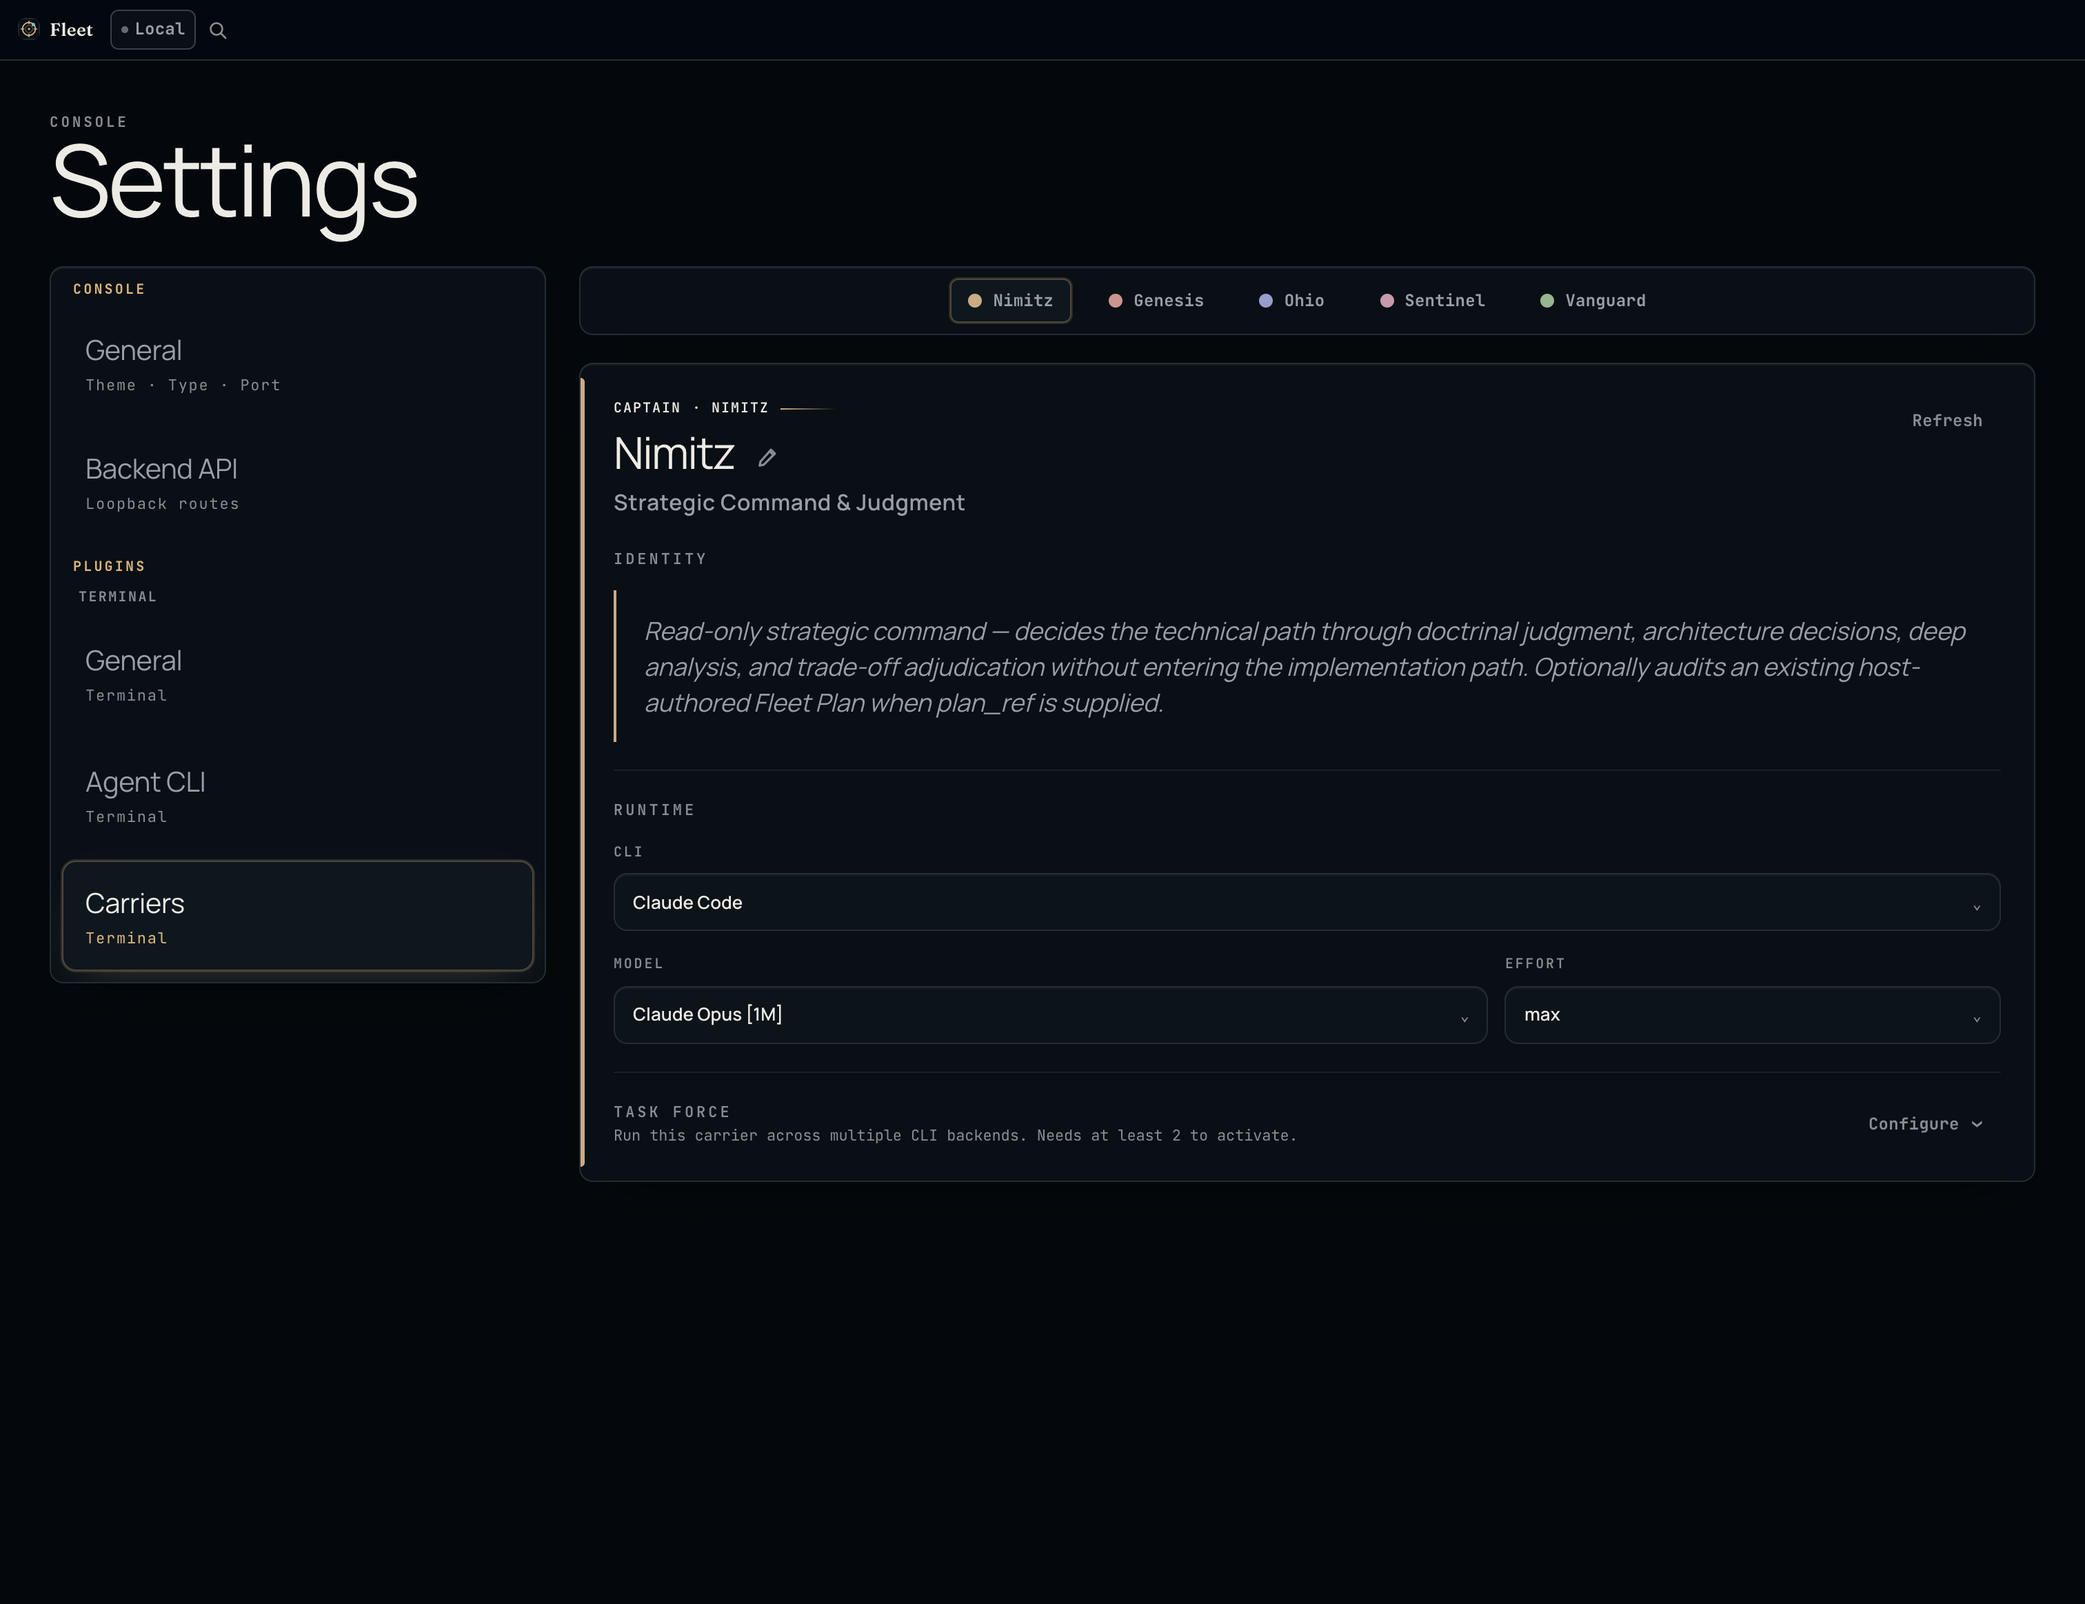
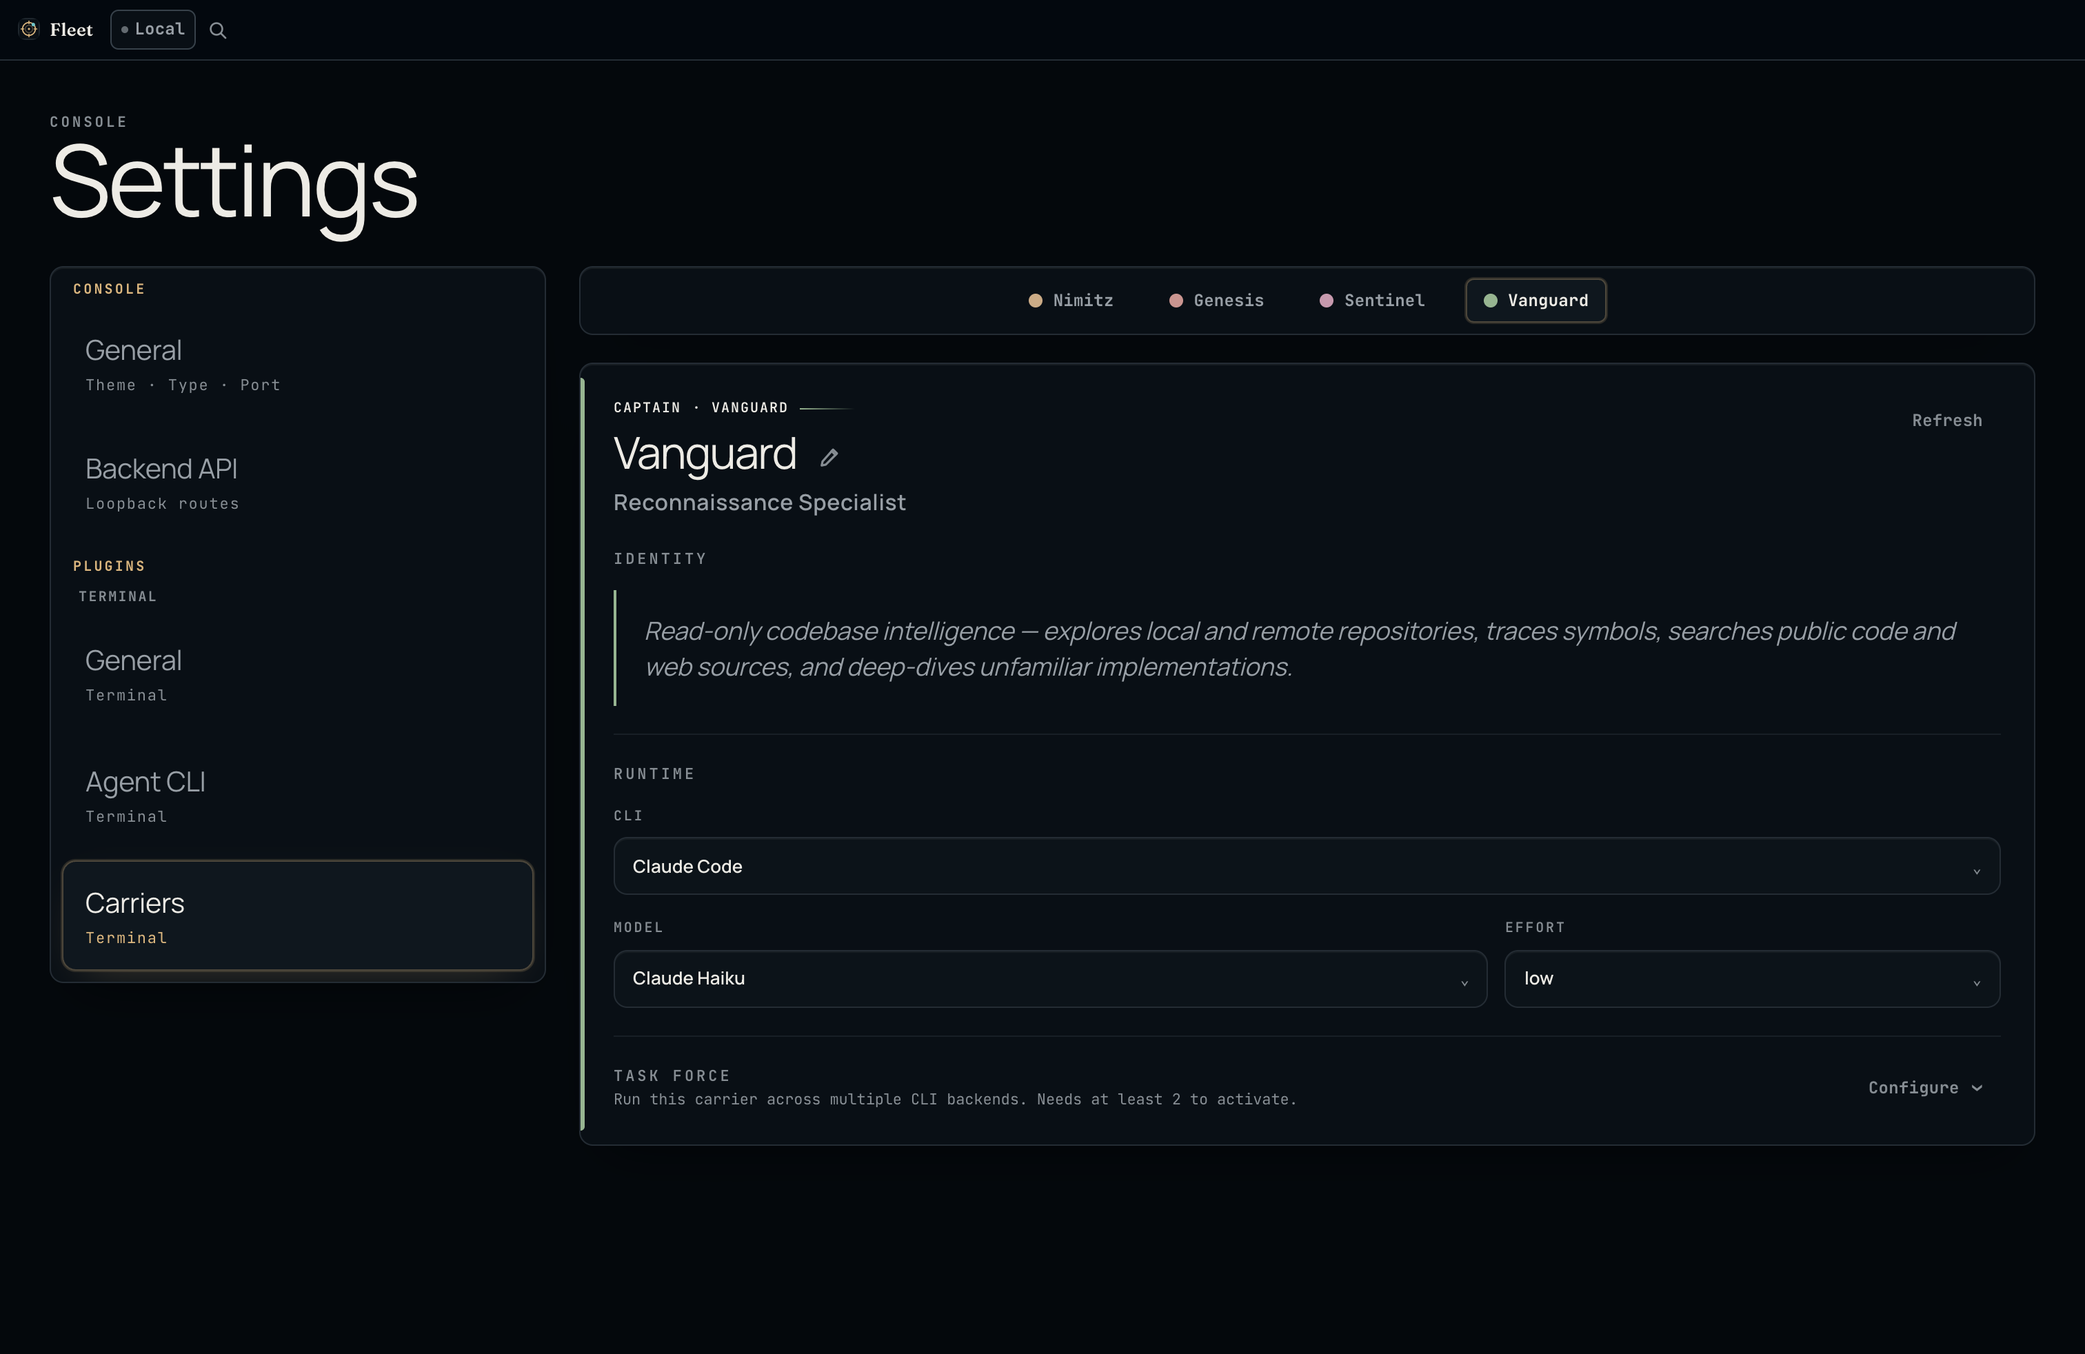
docs(carriers): update Ohio retirement references
- document the four-carrier roster and Genesis Plan execution
- refresh the Console carrier settings screenshot

diff --git a/docs/app.jsx b/docs/app.jsx
@@ -144,25 +144,12 @@ const CAPTAINS = [
     role: { ko: "Chief Engineer", en: "Chief Engineer" },
     cli: "Claude Code",
     color: "#ff6b6b",
-    mission: { ko: "단일 결정타. 신규 모듈·통합·마이그레이션을 한 번의 항해로 종결한다.", en: "The decisive blow. Closes new modules, integrations, and migrations in a single voyage." },
+    mission: { ko: "직접 구현과 호스트가 작성한 TaskRef 기반 구현을 모두 맡는다. 구현과 Lane QA 증거를 반환하되 Plan 상태는 변경하지 않는 수석 엔지니어.", en: "Owns both direct implementation and execution of host-authored TaskRefs. The chief engineer returns implementation and Lane QA evidence without changing Plan state." },
     duties: [
-      { ko: "단일 함정 구현 — 새 기능, 모듈, 시스템 통합", en: "Single-vessel implementation — new features, modules, system integrations." },
-      { ko: "프레임워크 마이그레이션 · 대규모 리팩터", en: "Framework migrations and large-scale refactors." },
-      { ko: "빌드 게이트 통과를 책임지는 구현 표준", en: "Owns the implementation standard required to pass the build gate." },
-      { ko: "패치보다 시스템 — 일관성을 잃을 바엔 다시 짠다", en: "System over patch — would rather rewrite than lose consistency." },
-    ],
-  },
-  {
-    id: "Ohio",
-    role: { ko: "Multi-Wave Strike Execution", en: "Multi-Wave Strike Execution" },
-    cli: "Claude Code",
-    color: "#a78bfa",
-    mission: { ko: "호스트가 작성한 Plan TaskRef를 받아 파(Wave) 단위로 실행한다. 다단 작전의 실집행 잠수함.", en: "Receives host-authored Plan TaskRefs and executes them by wave. The submarine that actually executes multi-stage ops." },
-    duties: [
-      { ko: "동일 Lane TaskRef 수신 → 지정 태스크만 실행", en: "Receives same-Lane TaskRefs and executes only the assigned tasks." },
-      { ko: "각 wave 후 빌드·테스트·검증 게이트", en: "Build / test / verification gate after every wave." },
-      { ko: "롤백 가능 단위로 커밋·체크포인트 유지", en: "Keeps commits and checkpoints at rollback-safe granularity." },
-      { ko: "장기 다단 마이그레이션의 1차 실집행자", en: "Primary executor for long, multi-stage migrations." },
+      { ko: "직접 구현 — 새 기능, 모듈, 시스템 통합", en: "Direct implementation — new features, modules, system integrations." },
+      { ko: "Plan 기반 구현 — 호스트가 작성한 동일 Lane TaskRef만 실행", en: "Plan-driven implementation — executes only host-authored same-Lane TaskRefs." },
+      { ko: "각 wave 후 빌드·테스트·Lane QA 증거 반환", en: "Returns build, test, and Lane QA evidence after each wave." },
+      { ko: "Plan 변경·완료 표시 금지 — 검증 후 호스트가 수행", en: "Never mutates or completes Plan state — the host does so after inspection." },
     ],
   },
   {
@@ -370,16 +357,16 @@ function Nav() {
 
 // ───── Hero ─────
 function Hero() {
-  const nodeCount = 5;
+  const nodeCount = 4;
   const radius = 38;
   const nodes = Array.from({ length: nodeCount }, (_, i) => {
     const angle = (i / nodeCount) * Math.PI * 2 - Math.PI / 2;
     return {
       x: 50 + Math.cos(angle) * radius,
       y: 50 + Math.sin(angle) * radius,
-      label: ["VG", "NM", "GN", "OH", "SN"][i],
-      full: ["Vanguard", "Nimitz", "Genesis", "Ohio", "Sentinel"][i],
-      color: ["#5fd673", "#d4af37", "#ff6b6b", "#a78bfa", "#fb7185"][i],
+      label: ["VG", "NM", "GN", "SN"][i],
+      full: ["Vanguard", "Nimitz", "Genesis", "Sentinel"][i],
+      color: ["#5fd673", "#d4af37", "#ff6b6b", "#fb7185"][i],
     };
   });
 

diff --git a/docs/fleet-development-reference.md b/docs/fleet-development-reference.md
@@ -46,9 +46,9 @@ Put code here when it owns the host-agnostic one-shot executor/session/model run
 
 Put code here when it owns Fleet Plan schema validation, PlanRef/TaskRef identity, workspace-scoped Plan persistence, or the `plan_read`, `plan_write`, `plan_mark_tasks`, and `plan_verify` tool contracts. Generic cwd-to-workspace directory resolution remains in `packages/core-infra`.
 
-The host owns Fleet Plan authoring and mutation. `plan_write` and `plan_verify` are host-only; load the built-in `plan-operations` skill before the first host `plan_write` call in a session and skip reloading when it is already in context. `plan_read` remains available to the host and metadata-authorized Carriers, while `plan_mark_tasks` remains Ohio-only. Nimitz may optionally provide read-only assurance for an exact existing host-authored PlanRef and never authors or mutates Plan state.
+The host owns Fleet Plan authoring and all mutation. `plan_write`, `plan_verify`, and `plan_mark_tasks` are host-only; load the built-in `plan-operations` skill before the first host `plan_write` call in a session and skip reloading when it is already in context. `plan_read` remains available to the host and metadata-authorized Carriers. Nimitz may optionally provide read-only assurance for an exact existing host-authored PlanRef and never authors or mutates Plan state.
 
-`plan_read` has two deterministic views. A `plan_ref`-only call returns the full linted Markdown for host inspection or optional Nimitz assurance. Any call with `task_refs` returns a compact execution view containing Plan-wide objective, topology, progress, global gates, and acceptance context; the selected Lane contract; and only the selected tasks. Supplying both inputs is valid only when they identify the same Plan. Ohio receives host-authored TaskRefs, reads the complete assigned same-Lane set once at dispatch start, and re-reads only after a reported Plan-state conflict or explicit host redirection. Requested Plan changes and unresolved decisions return to the host.
+`plan_read` has two deterministic views. A `plan_ref`-only call returns the full linted Markdown for host inspection or optional Nimitz assurance. Any call with `task_refs` returns a compact execution view containing Plan-wide objective, topology, progress, global gates, and acceptance context; the selected Lane contract; and only the selected tasks. Supplying both inputs is valid only when they identify the same Plan. When TaskRefs are supplied, Genesis reads the complete assigned same-Lane set once at dispatch start, executes only that scope, runs Lane QA, and returns artifact evidence without changing Plan state. Re-reading is reserved for a reported Plan-state conflict or explicit host redirection. The host independently inspects the artifacts and QA evidence before calling `plan_mark_tasks` with the original TaskRefs; requested Plan changes and unresolved decisions also return to the host. New Plans use the carrier-neutral full-plan policy, while the exact legacy Ohio policy remains lint-compatible only for existing Plans.
 
 ## 3. Import Rules
 

diff --git a/.agents/skills/git-worktree/SKILL.md b/.agents/skills/git-worktree/SKILL.md
@@ -144,4 +144,4 @@ Create or remove a Fleet git worktree safely, without mutating unrelated files, 
 - **Stop and report** — when a worktree path or branch is already present or in use. Do not resolve collisions autonomously.
 - Skip carrier delegation for clean create/remove operations that follow the standard `origin/canary` path and have no conflict or policy issue.
 - **Carrier edits inside the new worktree** — after `create`, when you delegate file edits to a carrier (`carrier_dispatch`), pass the **absolute worktree path** as the dispatch `cwd` argument so the carrier's CLI spawns inside this worktree and its repo-relative paths resolve here. If you omit `cwd`, the carrier's cwd defaults to the **main checkout** (not this worktree), so omitting it for worktree work risks editing the main checkout — always set `cwd` for worktree delegation. Before dispatch, confirm `pnpm install --frozen-lockfile` succeeded in this worktree, identify every target package, and run each package's declared `typecheck` and `build` scripts from this worktree. If either preflight script is absent or fails, stop and report instead of dispatching. After each return run `git -C <main-checkout> status --short` to confirm the main checkout stayed clean, and treat the carrier's reported `workspaceChanges` (window-approx) as unreliable — trust the real `git status`.
-- **Fleet Plans are worktree-independent** — plans live under the Fleet data directory and are addressed by PlanRef/TaskRef, so never copy a Plan into a new git worktree. Pass the original fully qualified TaskRefs to Ohio; their workspace component resolves the authoritative Plan even when Ohio executes from another cwd.
+- **Fleet Plans are worktree-independent** — plans live under the Fleet data directory and are addressed by PlanRef/TaskRef, so never copy a Plan into a new git worktree. Pass the original fully qualified same-Lane TaskRefs to Genesis; their workspace component resolves the authoritative Plan even when Genesis executes from another cwd. The host marks those TaskRefs complete only after inspecting the worktree artifacts and confirming Lane QA.

diff --git a/docs/admiral-workflow-reference.md b/docs/admiral-workflow-reference.md
@@ -52,7 +52,7 @@ Forbidden patterns:
 5. For operational work, let the protocol gate select exactly one protocol skill: trivial, standard, high-risk, or multi-agent.
 6. Follow the active protocol's declared checkpoints. Trivial has none and uses Mission Anchor Compact Mode.
 7. Use the reduced protocol cadence: emit `brief: <...>` after readiness checks and `status: executing` when execution begins.
-8. Apply Context Confidence at the active protocol's host-authored planning boundary: standard requires sufficient confidence; high-risk and multi-agent require complete confidence. The host owns Plan authoring and mutation, may optionally send an exact existing PlanRef to Nimitz for read-only assurance, and hands host-authored same-Lane TaskRefs to Ohio.
+8. Apply Context Confidence at the active protocol's host-authored planning boundary: standard requires sufficient confidence; high-risk and multi-agent require complete confidence. The host owns all Plan authoring and mutation, may optionally send an exact existing PlanRef to Nimitz for read-only assurance, and hands host-authored same-Lane TaskRefs to Genesis. Genesis returns artifacts and Lane QA evidence without changing Plan state; the host marks the original TaskRefs complete only after artifact inspection and Lane QA.
 9. Let Result Integrity route verification loops: received results get relevance/completeness/conflict checks, mutating finalized jobs run the Artifact Inspection Gate, speculation goes to Deep Dive, and contradictions with verified facts re-enter Context Confidence.
 10. For mutating carrier jobs, inspect actual artifacts before acceptance: use the `carrier_jobs` summary manifest, direct git diff, and changed files against the dispatch intent and Mission Objective. Read-only jobs skip this gate and route claims through Deep Dive.
 11. Run `pnpm check:protocol-sync` after changing protocol gate text, protocol skill assets, or report-token grammar.

diff --git a/README.ko.md b/README.ko.md
@@ -71,7 +71,7 @@ Fleet Wiki는 아키텍처 결정, 제품 히스토리, 가이드, 리뷰 큐를
 
 <img src=".github/console-carrier-settings.png" alt="Fleet Console Carrier Settings" width="100%" />
 
-각 Carrier의 CLI 백엔드, 모델, 추론 강도, Task Force 구성을 하나의 시각적 로스터에서 선택합니다. 기본 제공되는 5개의 전문 Carrier는 전략 판단과 선택적 Plan 보증, 구현, 다단 실행, QA, 로컬·원격 통합 코드베이스 인텔리전스를 담당합니다. 제독(호스트)이 Fleet Plan을 직접 작성·변경하며, Nimitz는 호스트가 작성한 정확한 PlanRef를 변경 없이 선택적으로 감사하고 Ohio는 호스트가 작성한 Plan의 TaskRef를 실행합니다. 문서화와 Fleet Wiki 갱신도 Carrier에 위임하지 않고 제독(호스트)이 직접 수행합니다.
+각 Carrier의 CLI 백엔드, 모델, 추론 강도, Task Force 구성을 하나의 시각적 로스터에서 선택합니다. 기본 제공되는 4개의 전문 Carrier는 전략 판단과 선택적 Plan 보증, 직접·Plan 기반 구현, QA·보안, 로컬·원격 통합 코드베이스 인텔리전스를 담당합니다. 제독(호스트)이 TaskRef 완료 표시를 포함한 모든 Fleet Plan 상태를 직접 작성·변경하며, 완료 표시는 Artifact Inspection과 Lane QA를 확인한 뒤에만 수행합니다. Nimitz는 호스트가 작성한 정확한 PlanRef를 변경 없이 선택적으로 감사하고, Genesis는 호스트가 작성해 전달한 동일 Lane TaskRef를 실행합니다. 문서화와 Fleet Wiki 갱신도 Carrier에 위임하지 않고 제독(호스트)이 직접 수행합니다.
 
 > Fleet Console은 리서치 프리뷰입니다.
 

diff --git a/README.md b/README.md
@@ -71,7 +71,7 @@ Fleet Wiki keeps architecture decisions, product history, guides, and review que
 
 <img src=".github/console-carrier-settings.png" alt="Fleet Console Carrier Settings" width="100%" />
 
-Choose each Carrier's CLI backend, model, and reasoning effort from the visual roster at Settings > Plugins > Terminal > Carriers. Task Force-capable specialists also expose a multi-backend composition panel. Five built-in specialists cover strategic judgment and optional Plan assurance, implementation, multi-wave execution, QA, and unified local-or-remote codebase intelligence. The Admiral authors and mutates Fleet Plans directly; Nimitz may optionally audit an exact host-authored PlanRef without changing it, and Ohio executes host-authored Plan TaskRefs. The Admiral also handles documentation and Fleet Wiki updates directly — they are not delegated to Carriers.
+Choose each Carrier's CLI backend, model, and reasoning effort from the visual roster at Settings > Plugins > Terminal > Carriers. Task Force-capable specialists also expose a multi-backend composition panel. Four built-in specialists cover strategic judgment and optional Plan assurance, direct and Plan-driven implementation, QA and security, and unified local-or-remote codebase intelligence. The Admiral authors and mutates all Fleet Plan state, including marking TaskRefs complete only after artifact inspection and Lane QA. Nimitz may optionally audit an exact host-authored PlanRef without changing it, while Genesis executes host-authored same-Lane TaskRefs when supplied. The Admiral also handles documentation and Fleet Wiki updates directly — they are not delegated to Carriers.
 
 > Fleet Console is a research preview.
 

diff --git a/.agents/skills/clean-code/SKILL.md b/.agents/skills/clean-code/SKILL.md
@@ -41,7 +41,7 @@ Present a before/after table (files, barrels, lines) and await user approval.
 ### Execution
 
 - **≤ 2 merge groups**: Genesis direct.
-- **≥ 3 merge groups or cross-directory deps**: host-authored Plan → Ohio execution.
+- **≥ 3 merge groups or cross-directory deps**: host-authored Plan → Genesis execution; the host marks TaskRefs complete only after artifact inspection and Lane QA.
 - Wave order: consolidate imported-from directories first. Per wave: relocate → update imports → delete absorbed files → typecheck/test/build → residual grep.
 
 ## Pass 2 — Functional Deduplication
